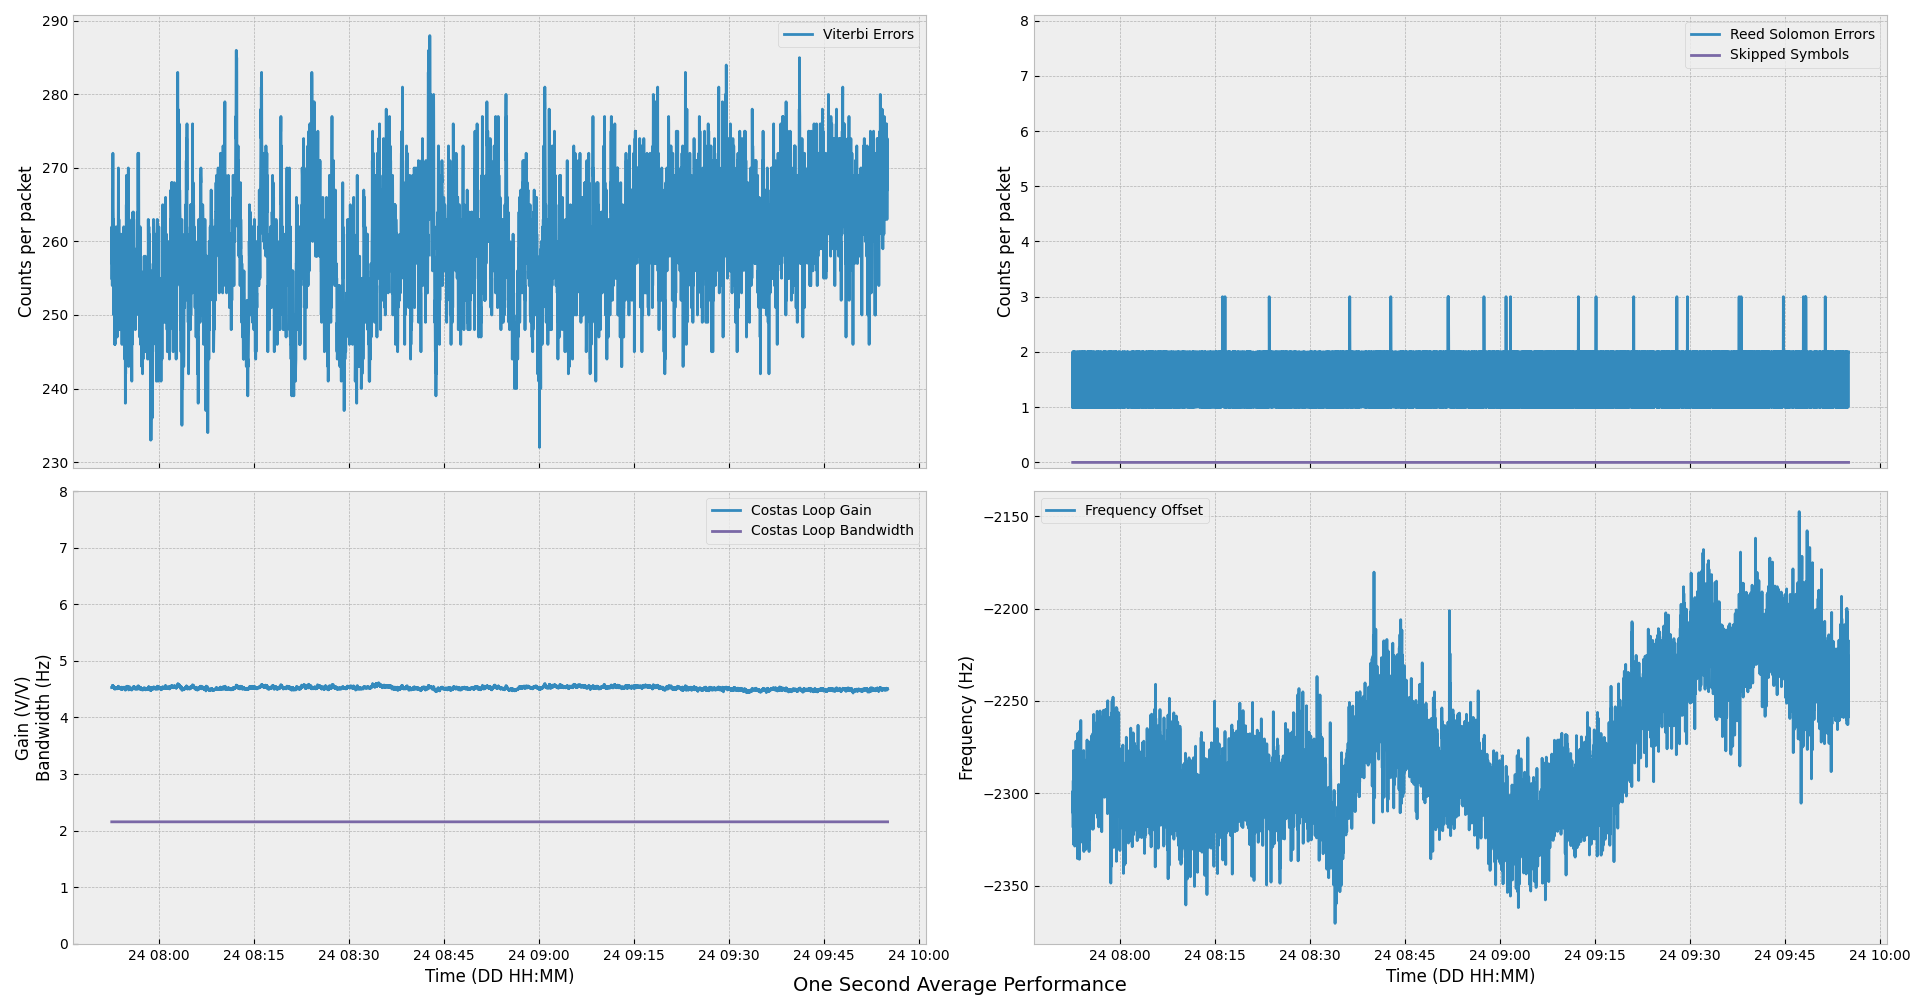
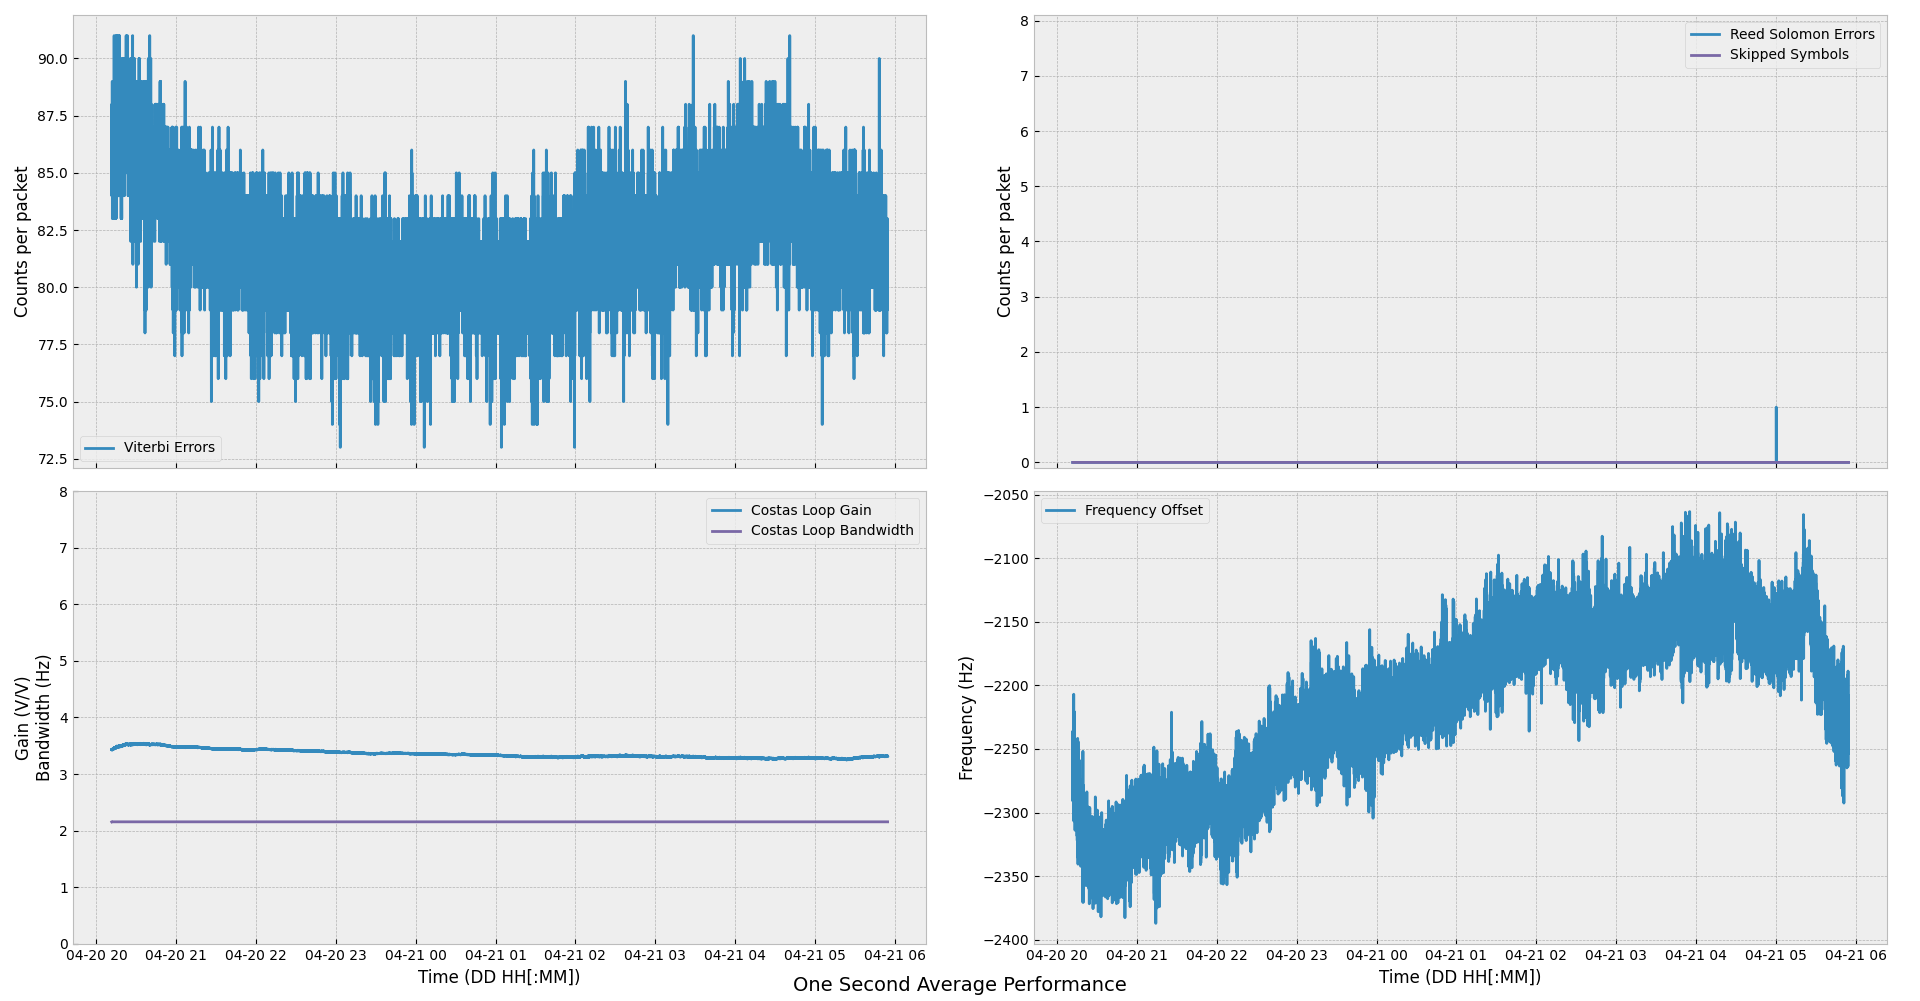
Minor updates
updated plot.py with better time axes labels
updated example.png and plots.png to reflect my permanet dish installation

diff --git a/plot.py b/plot.py
@@ -1,3 +1,4 @@
+#!/usr/bin/python3
 import json
 from datetime import datetime
 import matplotlib.pyplot as plt
@@ -48,10 +49,10 @@ axes[0].set_ylabel('Counts per packet')
 #axes[0].set_ylim([100,300])
 axes[1].set_ylabel('Counts per packet')
 axes[1].set_ylim([-0.1,8.1])
-axes[2].set_xlabel('Time (DD HH:MM)')
+axes[2].set_xlabel('Time (MM-DD HH[:MM])')
 axes[2].set_ylabel('Gain (V/V)\nBandwidth (Hz)')
 axes[2].set_ylim([0,8])
-axes[3].set_xlabel('Time (DD HH:MM)')
+axes[3].set_xlabel('Time (MM-DD HH[:MM])')
 axes[3].set_ylabel('Frequency (Hz)')
 
 plt.subplots_adjust(top=0.985, bottom=0.057, left=0.038, right=0.983, hspace=0.051, wspace=0.126)
